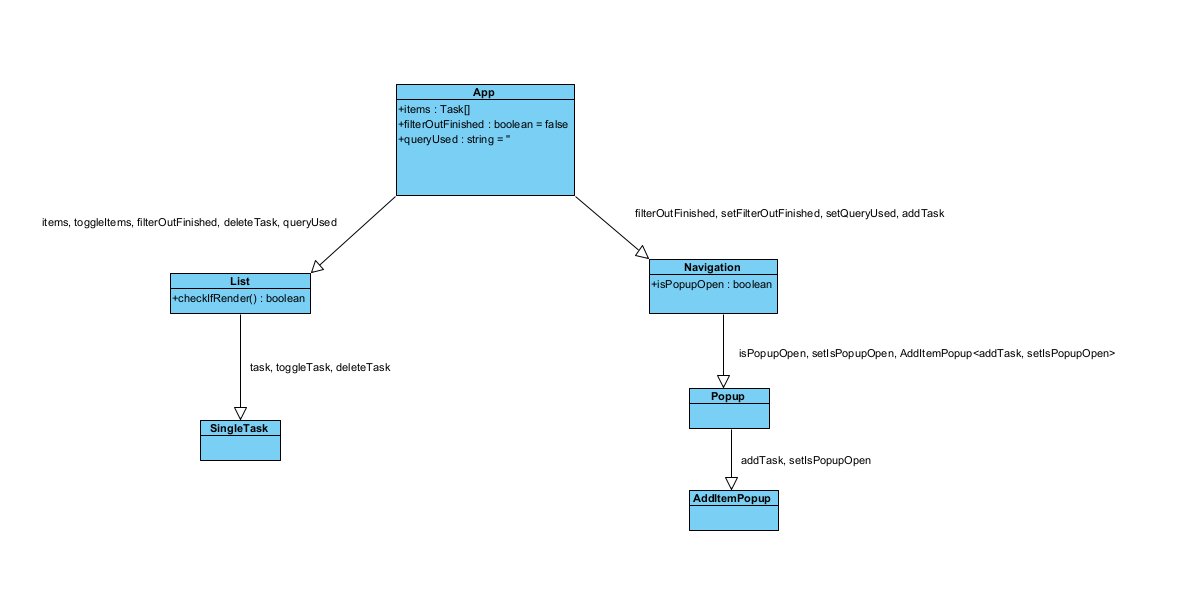
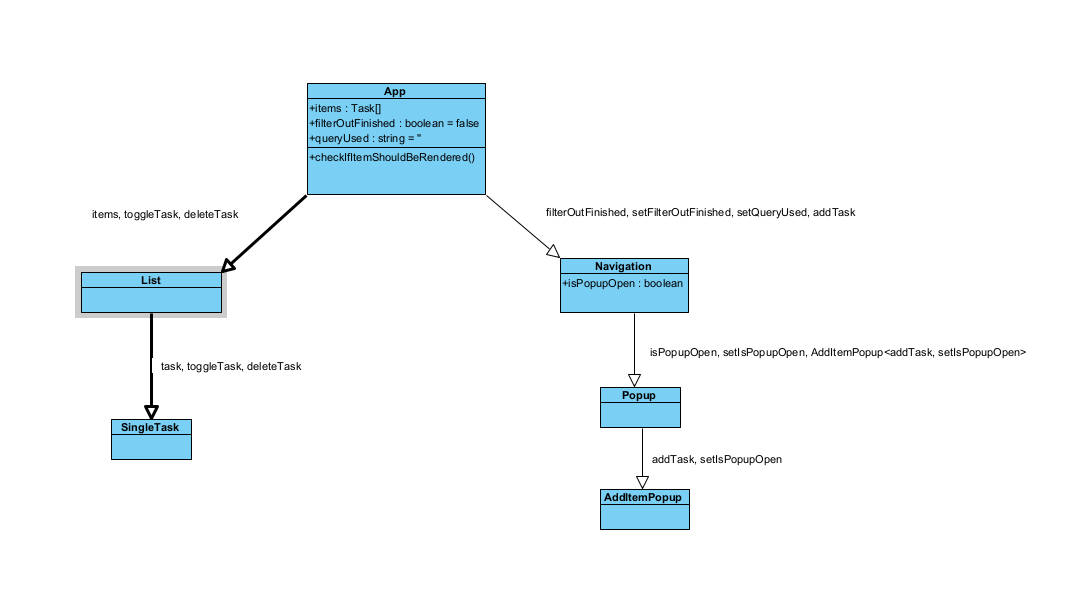
madrzejsze dzialanie

diff --git a/React/List02/src/components/List.tsx b/React/List02/src/components/List.tsx
@@ -5,44 +5,15 @@ import SingleTask from './SingleTask'
 interface ListProps {
   tasks: Task[],
   deleteTask: (id: number) => void,
-  toggleTask: (id: number) => void,
-  queryUsed: string,
-  filterOutFinished: boolean
+  toggleTask: (id: number) => void
 }
 
-const checkIfRender = (task: Task, queryUsed: string, filterOutFinished: boolean) => {
-  if (queryUsed.length > 0 && filterOutFinished) {
-    if (task.name.toLowerCase().includes(queryUsed.toLowerCase()) && !task.done) {
-      return true
-    }
-  }
-  else if (queryUsed.length > 0) {
-    if (task.name.toLowerCase().includes(queryUsed.toLowerCase())) {
-      return true
-    }
-  }
-  else if (filterOutFinished) {
-    if (!task.done) {
-      return true
-    }
-  }
-  else if (!queryUsed.length && !filterOutFinished) {
-    return true
-  }
-  return false
-}
-
-const List = ({ tasks, deleteTask, toggleTask, queryUsed, filterOutFinished }: ListProps) => {
+const List = ({ tasks, deleteTask, toggleTask }: ListProps) => {
   return (
     <>
       <h2 className='text-3xl my-4'>Tasks</h2>
       <main className='w-full my-4 max-h-[88vh] overflow-y-auto'>
-        {tasks.map((task) => {
-          if (checkIfRender(task, queryUsed, filterOutFinished)) {
-            return <SingleTask key={task.id} toggleTask={toggleTask} task={task} deleteTask={deleteTask} />
-          }
-          return null;
-        })}
+        {tasks.map((task) => <SingleTask key={task.id} toggleTask={toggleTask} task={task} deleteTask={deleteTask} />)}
       </main>
     </>
   )

diff --git a/React/List02/src/App.tsx b/React/List02/src/App.tsx
@@ -26,6 +26,28 @@ function App() {
     updateItems(items.filter((item) => item.id !== id))
   }
 
+  const checkIfTaskShouldBeRendered = (task: Task, queryUsed: string, filterOutFinished: boolean) => {
+    if (queryUsed.length > 0 && filterOutFinished) {
+      if (task.name.toLowerCase().includes(queryUsed.toLowerCase()) && !task.done) {
+        return true
+      }
+    }
+    else if (queryUsed.length > 0) {
+      if (task.name.toLowerCase().includes(queryUsed.toLowerCase())) {
+        return true
+      }
+    }
+    else if (filterOutFinished) {
+      if (!task.done) {
+        return true
+      }
+    }
+    else if (!queryUsed.length && !filterOutFinished) {
+      return true
+    }
+    return false
+  }
+
   return (
     <div id="root" className="m-2">
       <Navigation
@@ -35,10 +57,9 @@ function App() {
         addTask={addTask}
       />
       <List toggleTask={toggleTask}
-        tasks={items}
-        filterOutFinished={filterOutFinished}
         deleteTask={deleteTask}
-        queryUsed={queryUsed} />
+        tasks={items.filter((task) => checkIfTaskShouldBeRendered(task, queryUsed, filterOutFinished))}
+      />
     </div>
   )
 }
